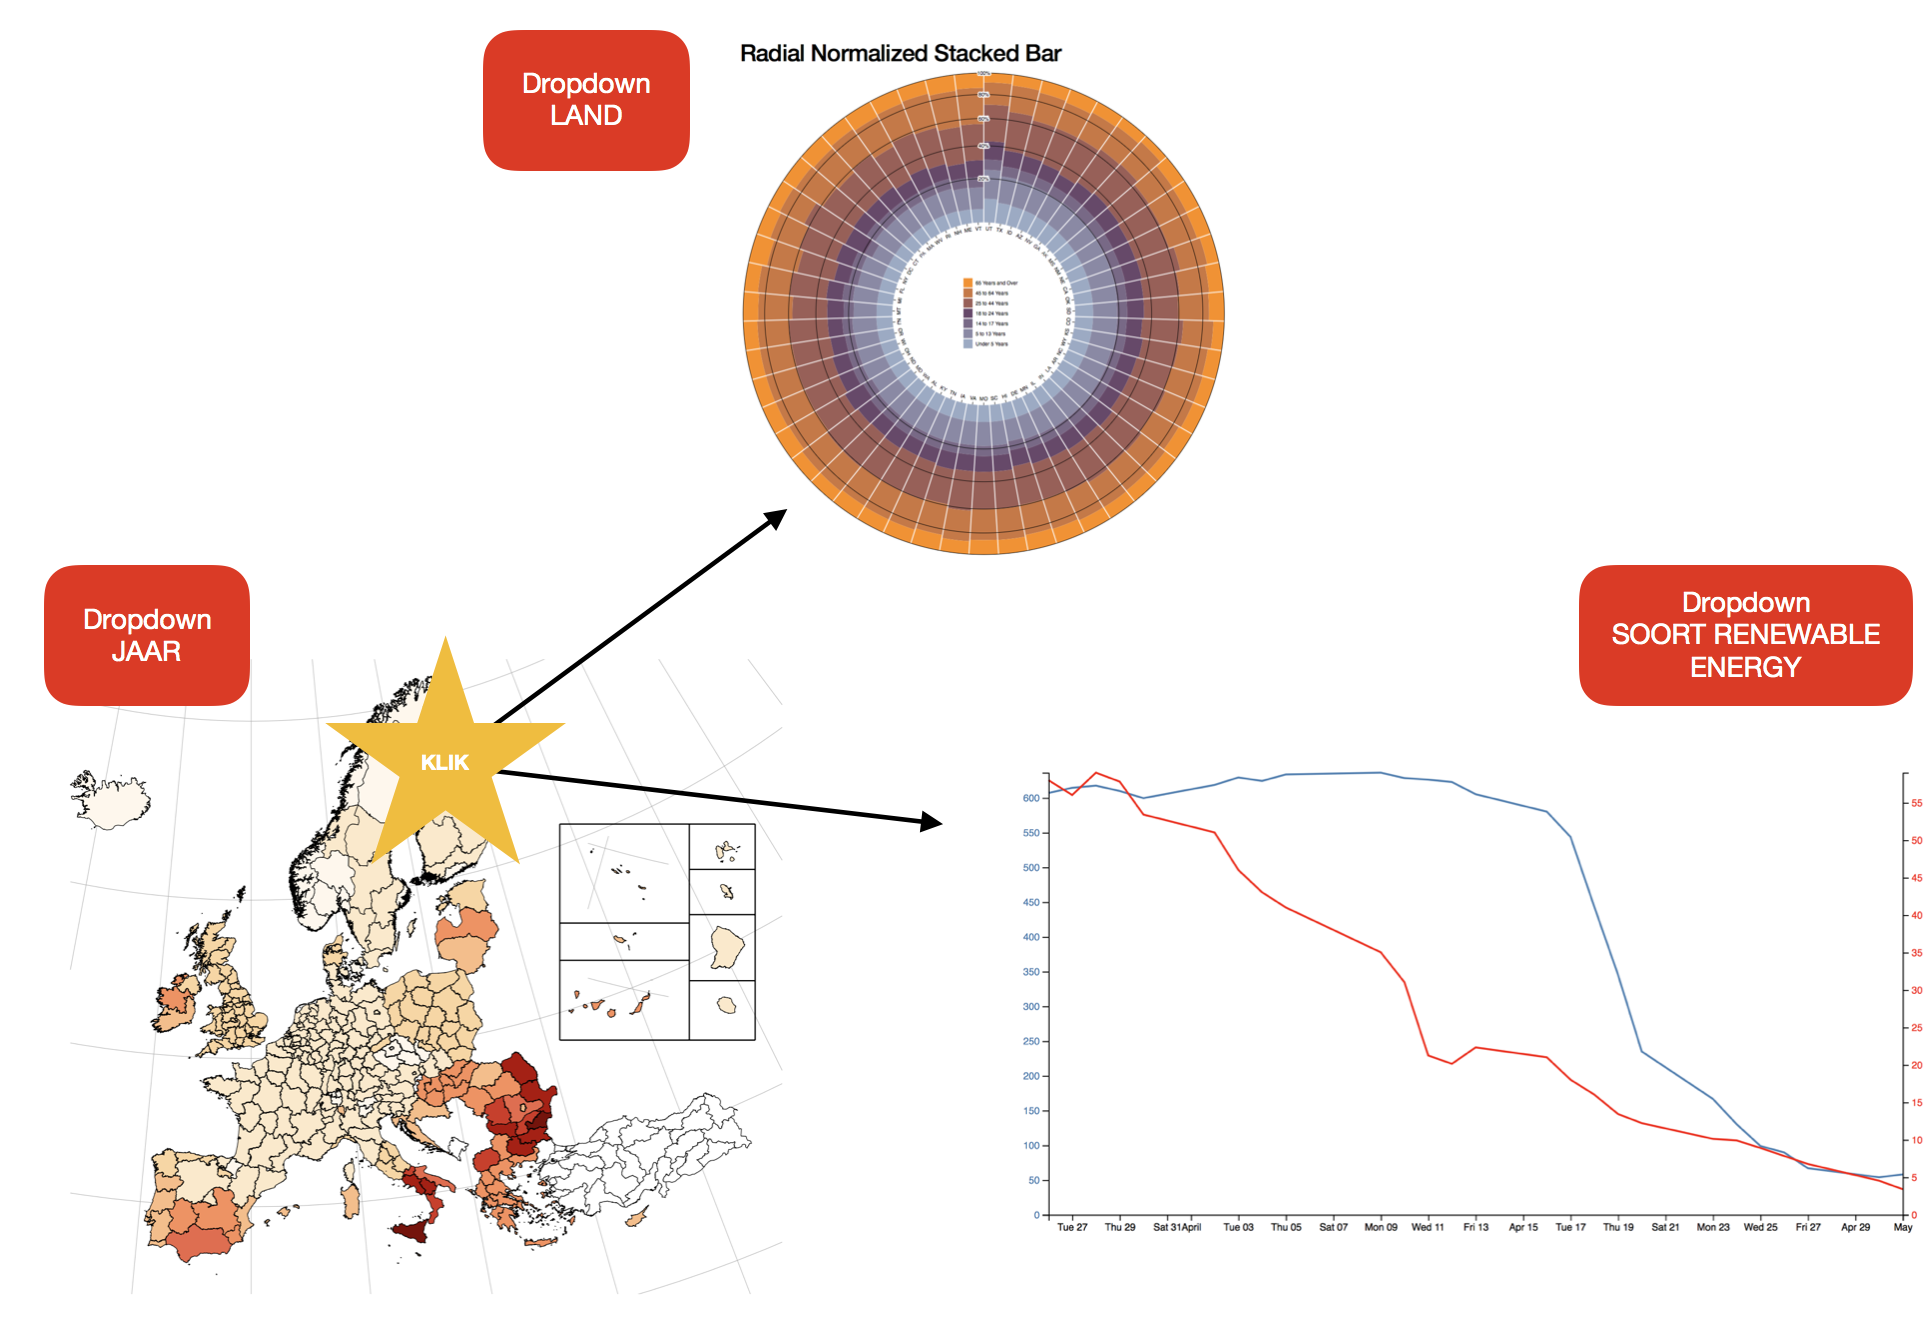
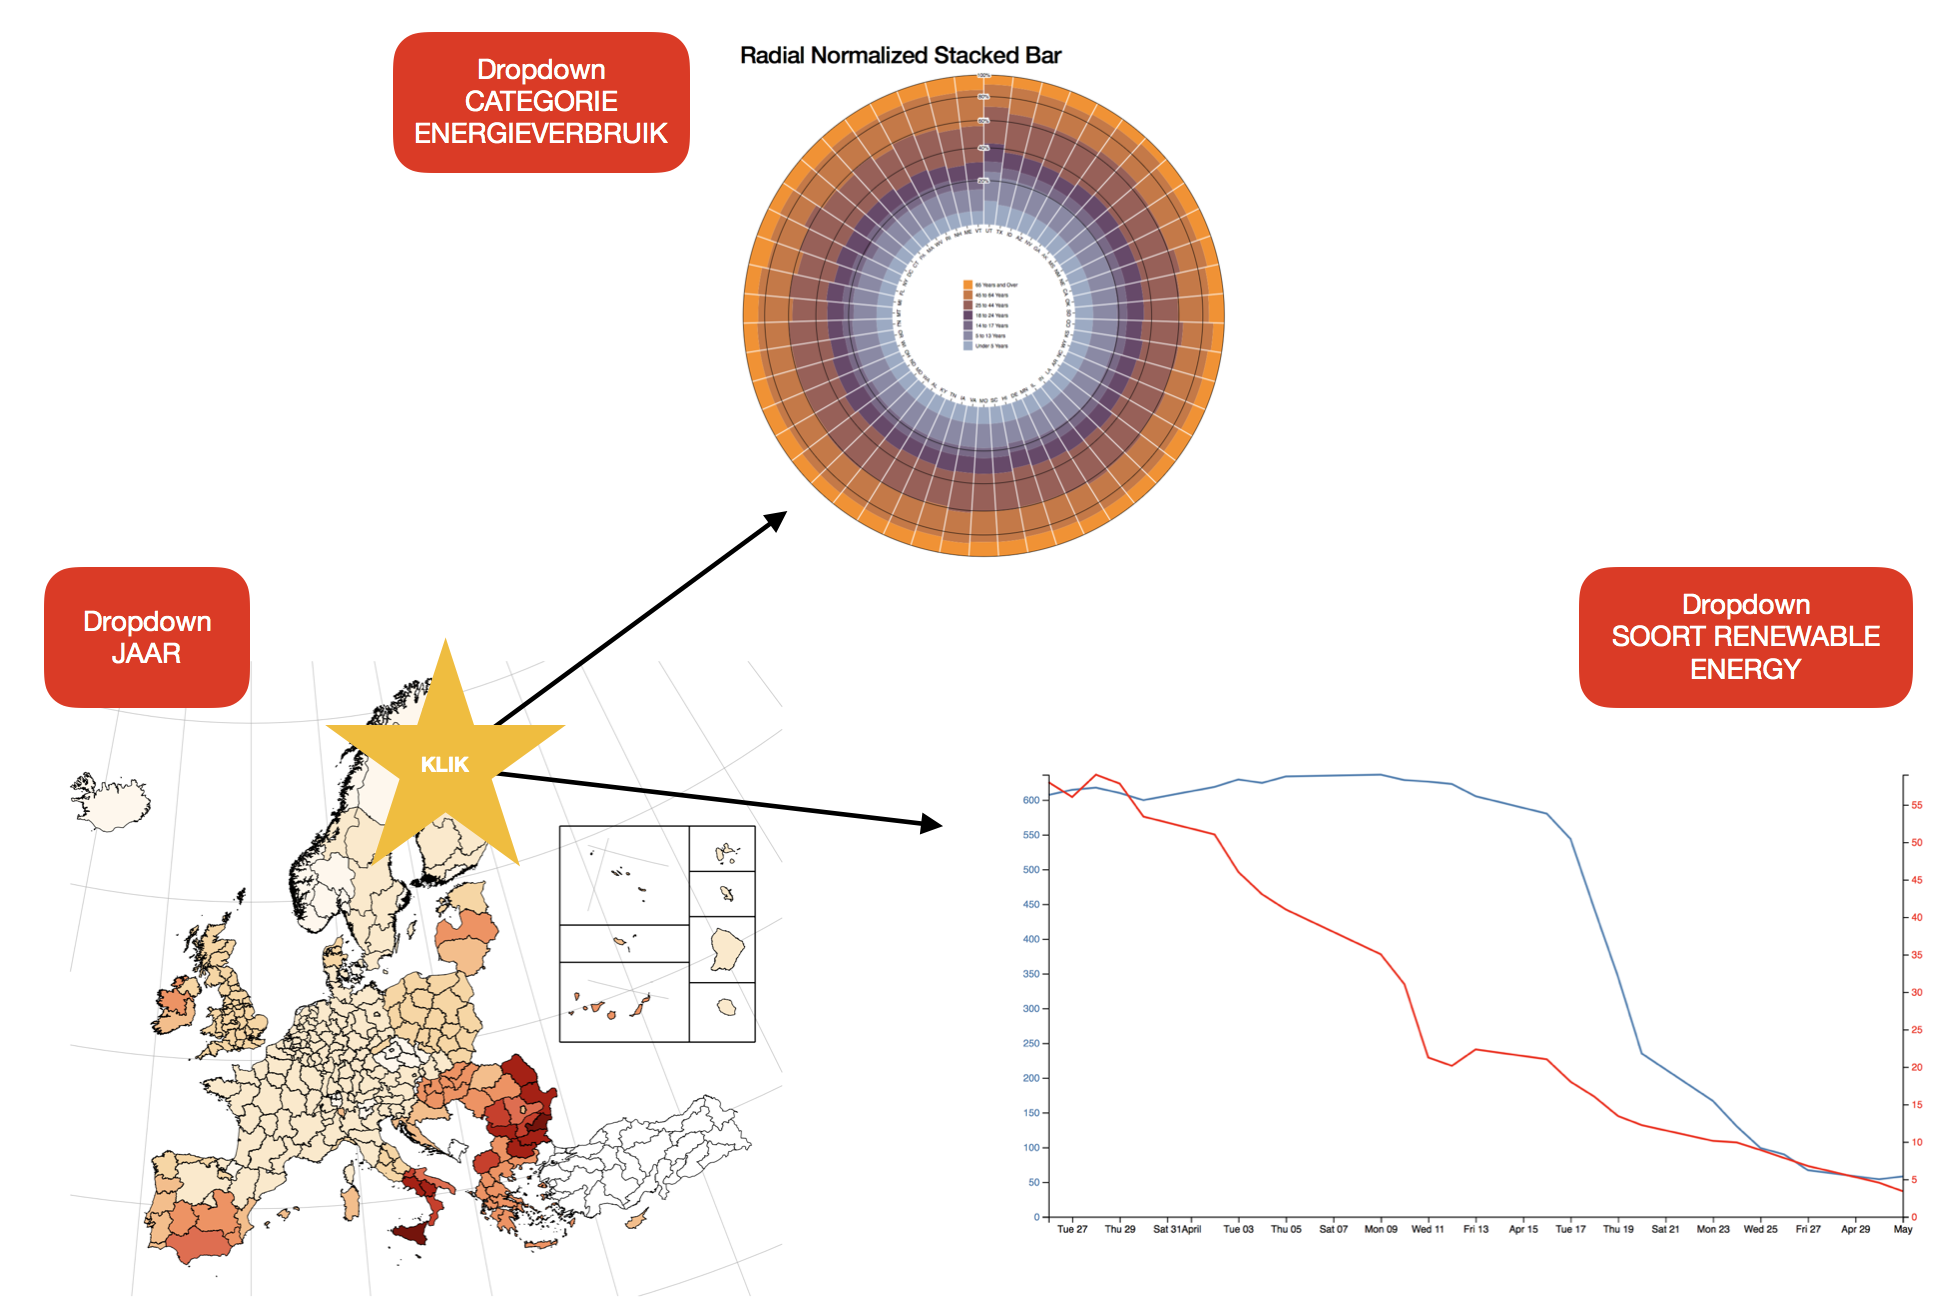
more clarifications

diff --git a/README.md b/README.md
@@ -5,7 +5,7 @@ This project visualizes the *standard* and *renewable* energy usage and producti
 ## Problem statement
 De koolcentrales zijn we massaal aan het sluiten in Nederland. In de Noordzee manifesteren zich grote hoeveelheden windparken, met nog velen op de planning. Maar, hoe zit dit op Europese schaal? Hoe is het energieverbruik en de -productie als we dit onder de loep nemen? En door de jaren heen? Staat ons kleine kikkerlandje er überhaupt wel goed voor?
 
-De *target audience* van dit project zijn de milieu- en/of prijsbewuste individuen. Deze willen bijvoorbeeld weten hoe goed een land presteert op basis van de productie of verbruik van groene energie.
+De *target audience* van dit project zijn de milieubewuste individuen. Deze willen bijvoorbeeld weten hoe goed een land presteert op basis van de productie of verbruik van groene energie.
 
 ## Solution
 Het gefinishte product laat duidelijk zien hoe het "grijze" en groene energieverbruik, de energieprijs en de productie van *renewable* energie per Europees land door de jaren heen zich onderling verhouden. Op dit moment is dat namelijk nog niet te zien.
@@ -20,12 +20,12 @@ Het gefinishte product laat duidelijk zien hoe het "grijze" en groene energiever
 **Click**: laadt de radiale genormaliseerde stacked bar graph van dit land en de multi-line dual axis graph met het aangeklikte land als gekozen onderwerp.
 
 - Een radiale genormaliseerde stacked bar graph met het percentage groene/grijze energieverbruik per jaar.
-**Dropdown**: selectie van land.
+**Dropdown**: selectie van categorie (transport, heating & cooling, etc.) in energieverbruik.
 **Hover**: laat het jaartal, land en percentage groene/grijze energieverbruik zien.
 
-- Een multi-line dual axis graph met de energieprijs en de productie van *renewable* energie per land per jaartal.
-**Dropdown**: selectie van soort renewable energie (bv. windenergie, zonne-energie).
-**Hover**: laat het jaartal, land, energieprijs en "groene" productie zien.]
+- Een multi-line dual axis graph met de elektriciteitsprijs en de productie van *renewable* energie per land per jaartal.
+**Dropdown**: selectie van soort renewable energie (bv. windenergie, zonne-energie, hydro-energie of totaal).
+**Hover**: laat het jaartal, land, energieprijs en "groene" productie zien.
 
 - Alles is het MVP, met uitzondering van het dual axis aspect. Als dat niet lukt, valt alleen de energieprijs te zien (1 Y-axis).
 
